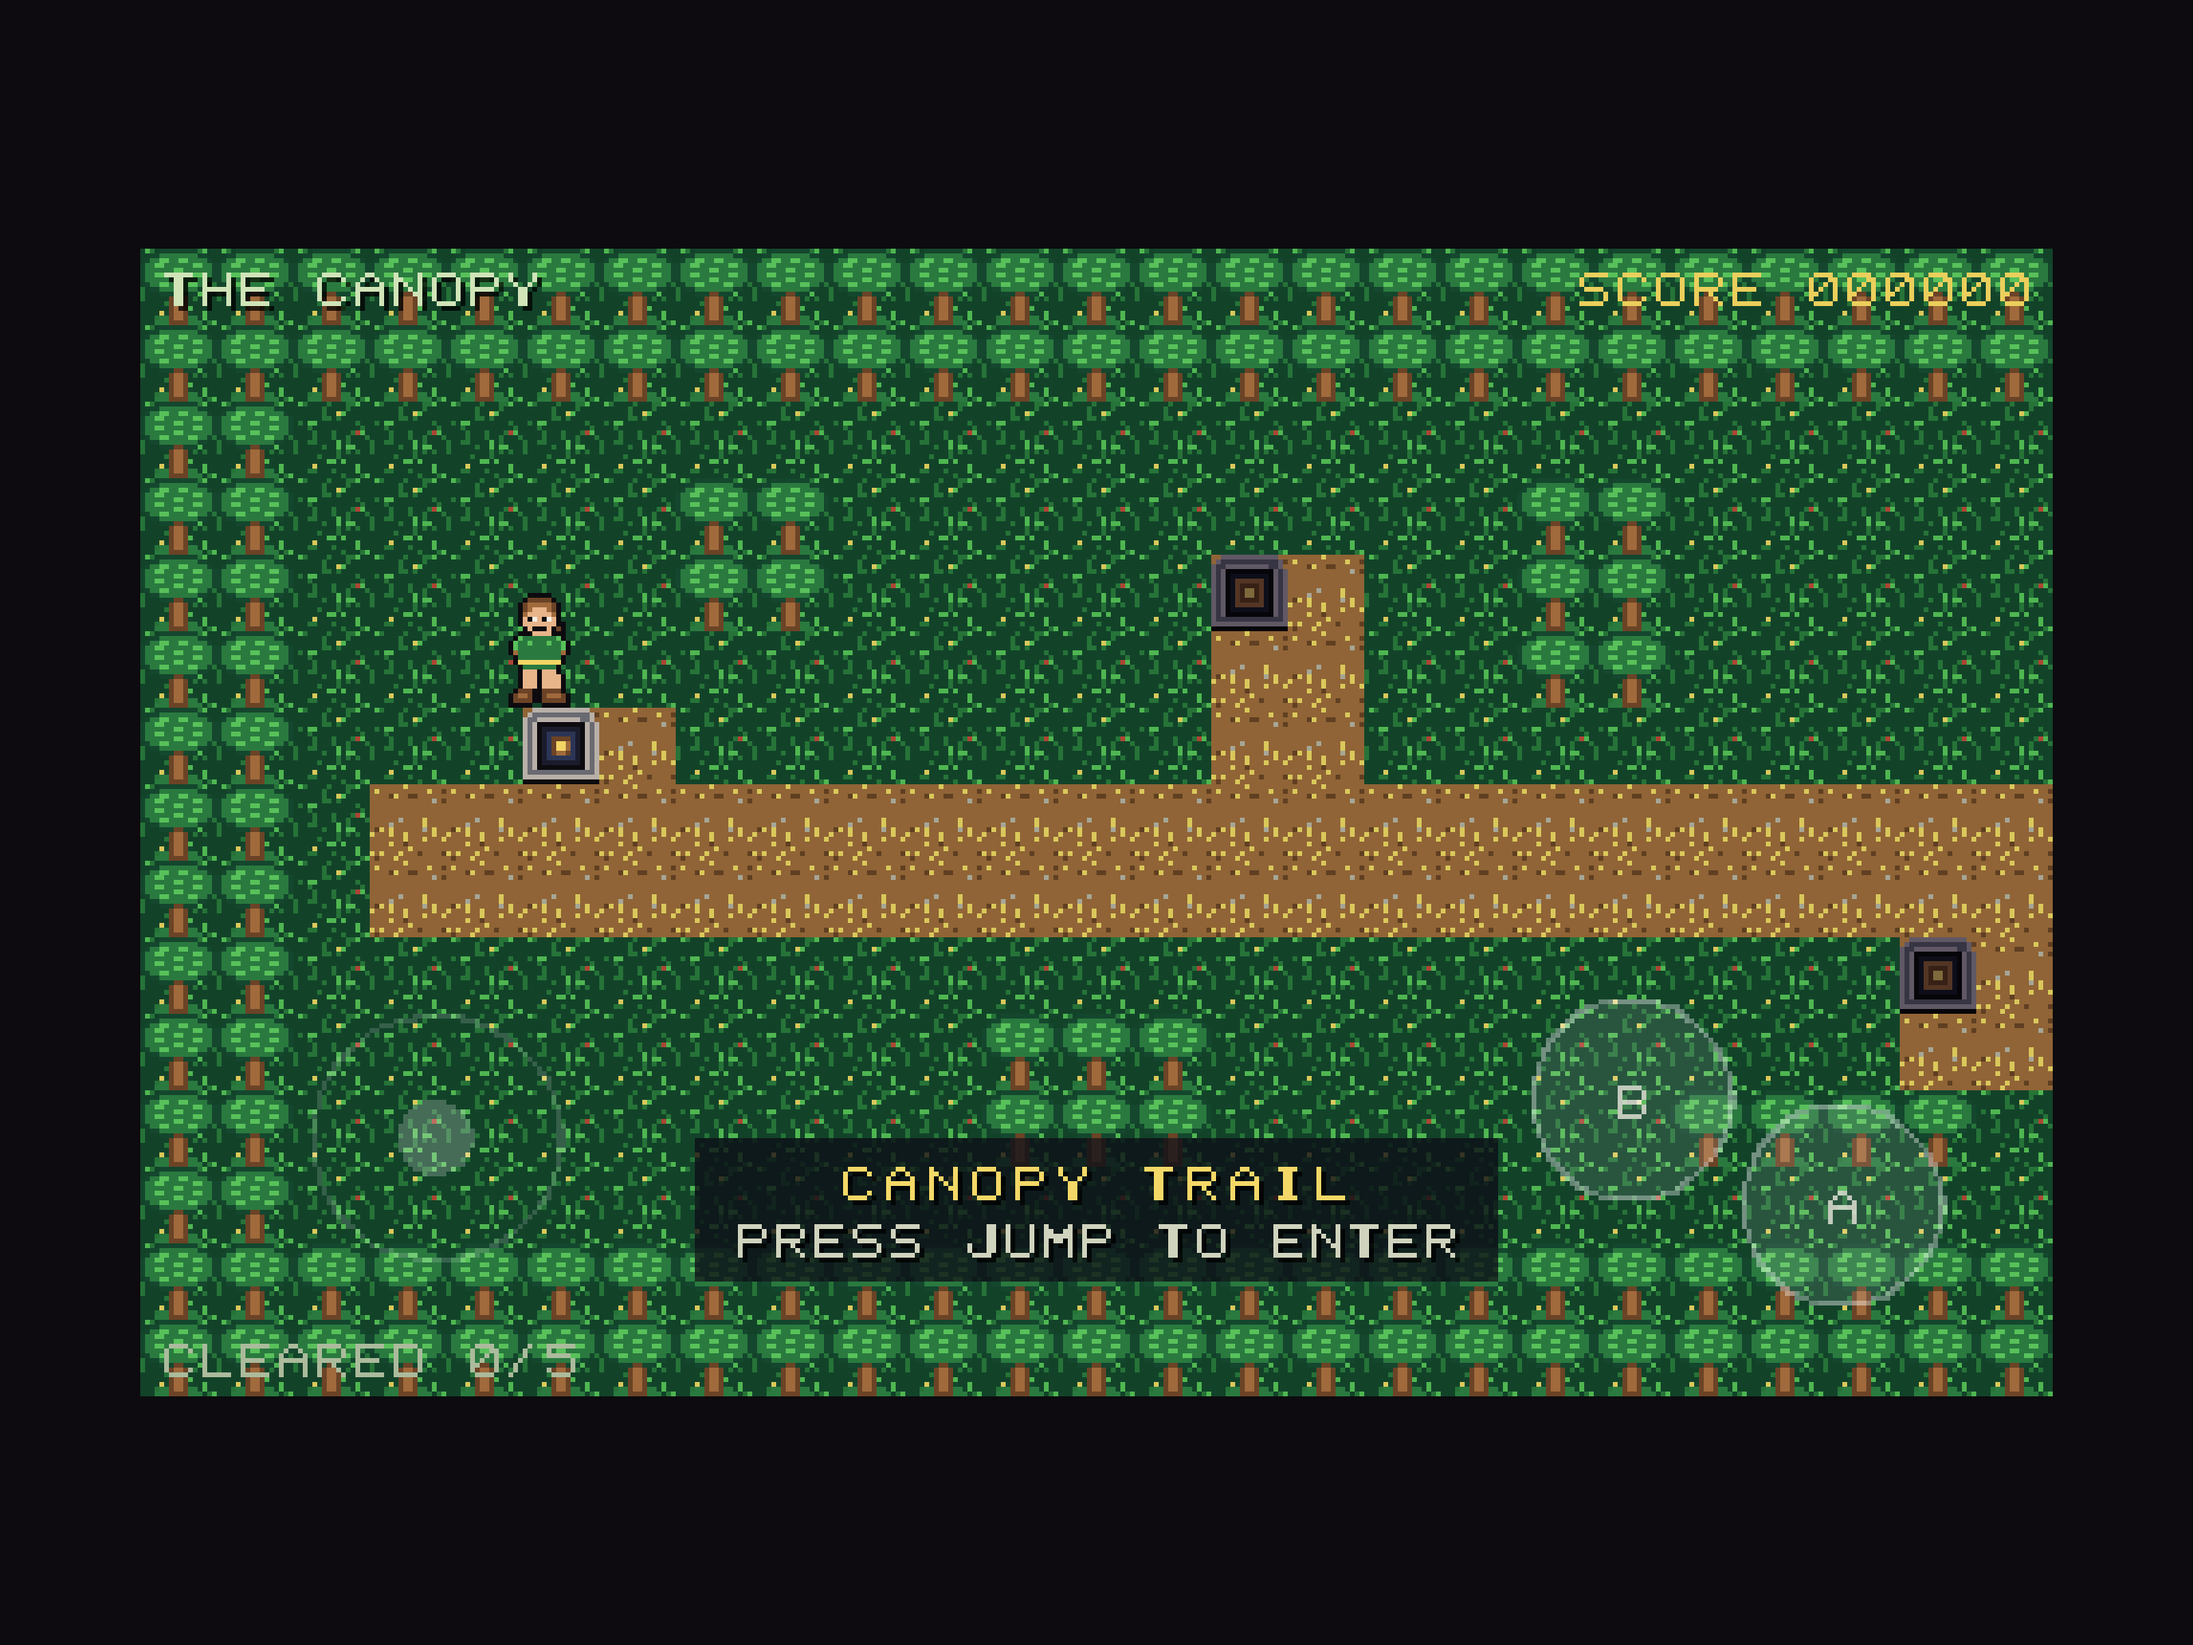
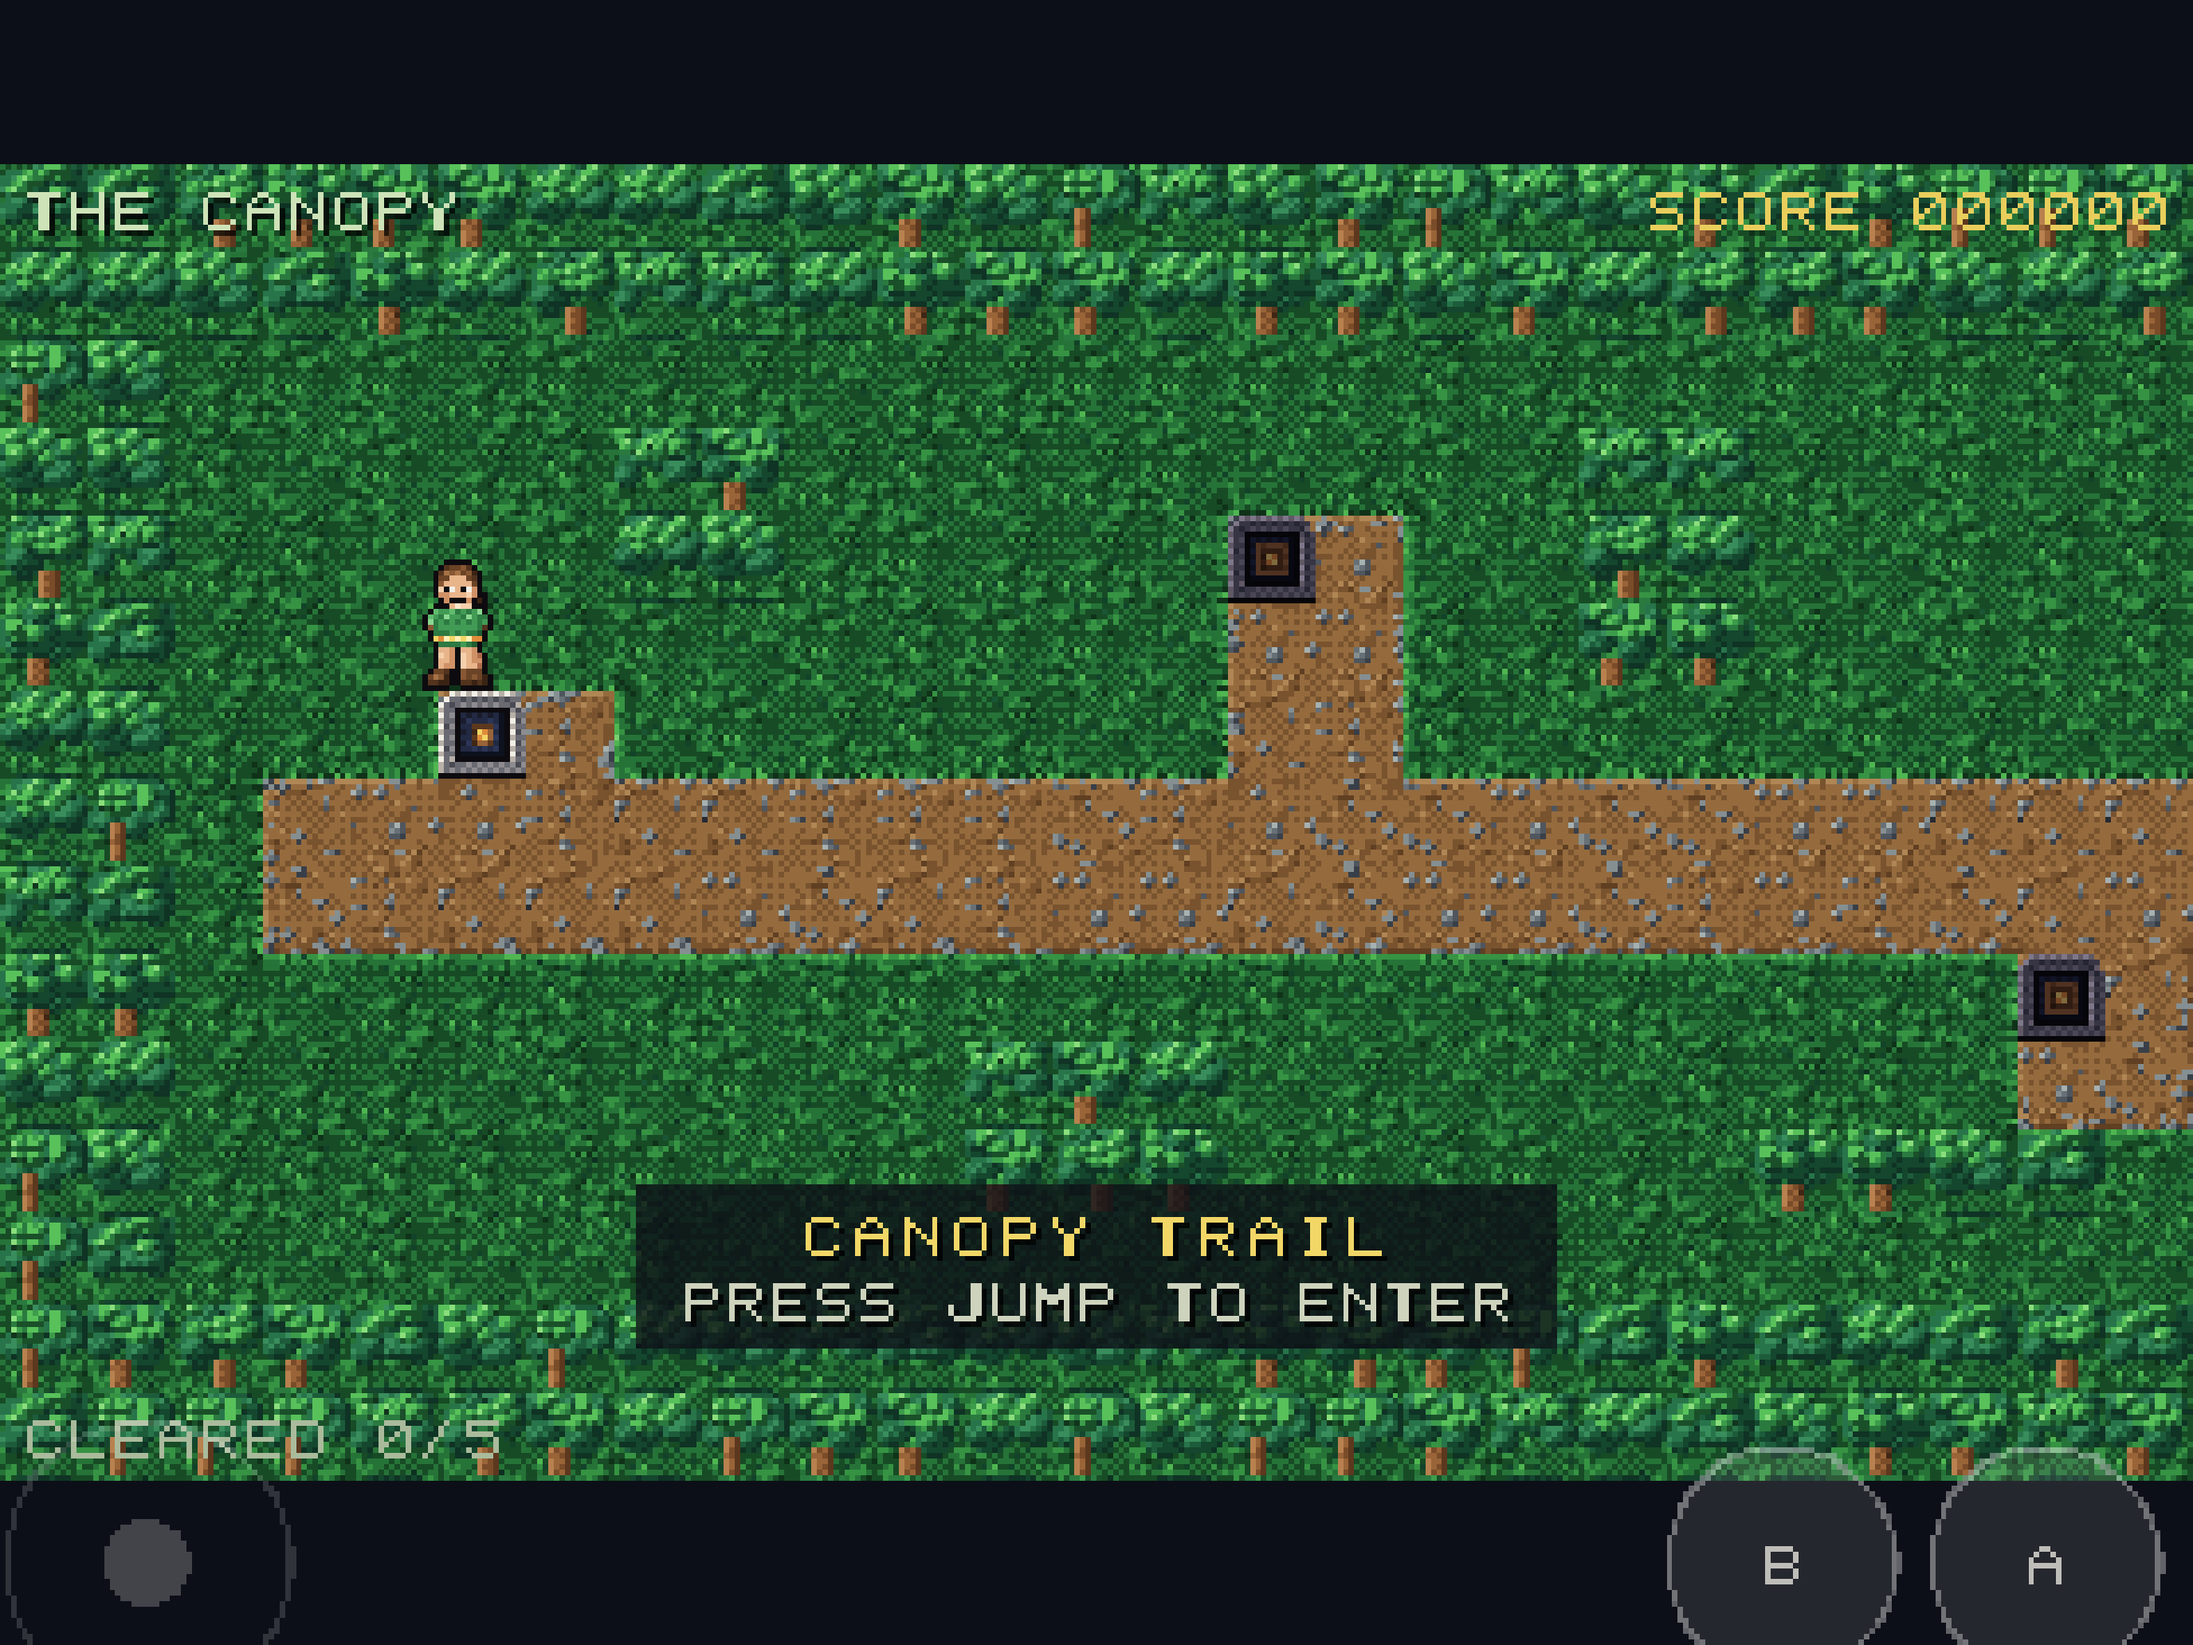
Fill the device screen, and move the touch buttons off the play area
Two reports, one cause: the game did not fill an iPhone, and the touch
buttons sat on top of the gameplay. Both came from pillarboxing a 5:3
logical screen onto a 2.17:1 device -- 311 px of black each side, with the
buttons inside the game rect and therefore about a centimetre inboard of
where a thumb rests.

Switching stretch/aspect to 'expand' alone would have filled the screen by
widening the viewport to 522 px = 32.6 tiles. The screen-flip camera treats
25 tiles as one screen, so that shows 7.6 tiles of the NEXT screen before
the flip -- the flip illusion and every level's composition break. Measured
before choosing.

So the world now renders into a 400x240 SubViewport, centred in a root
viewport that expands to the device aspect. The camera still sees exactly
one world screen; only the margin around it changes:

  19.5:9 phone   522x240   61 px each side    buttons in the right margin
  4:3 iPad       400x300   30 px top/bottom   buttons in the bottom margin
  exact 5:3      400x240   none               overlay fallback

The HUD is translated onto the world rect so it looks identical on every
aspect; full-screen overlays (pause, options, game over) now cover the real
viewport including the margins.

tools/shot.sh gains --res so captures can be taken at a device aspect, and
genstoreshots.sh shoots phone and tablet layouts separately -- the old store
screenshots showed a pillarboxed 400x240 that no device actually renders.
[…]

diff --git a/tools/gen_store_shots.py b/tools/gen_store_shots.py
@@ -17,10 +17,13 @@ ROOT = os.path.dirname(os.path.dirname(os.path.abspath(__file__)))
 SRC = os.path.join(ROOT, "shots")
 OUT = os.path.join(ROOT, "export", "store")
 
-# name -> (width, height). Landscape, because the game is landscape-only.
+# name -> (store size, capture subdirectory). Landscape; the game is
+# landscape-only. Captures are taken at each device's ASPECT so the screenshot
+# shows the real layout — full-bleed game with the touch controls out in the
+# margin — rather than a pillarboxed 400x240 that no device actually renders.
 TARGETS = {
-    "iphone-6.9": (2868, 1320),   # iPhone 16 Pro Max — required
-    "ipad-13":    (2752, 2064),   # 13" iPad — required while we ship universal
+    "iphone-6.9": ((2868, 1320), "phone"),   # 19.5:9 -> 522x240 logical
+    "ipad-13":    ((2752, 2064), "tablet"),  # 4:3    -> 400x300 logical
 }
 
 # Order matters: this is the order they appear on the store page.
@@ -38,30 +41,28 @@ BG = (13, 11, 15, 255)   # the palette's near-black, same as the letterbox
 
 
 def compose(src_path, size):
+    """The capture already has the device's aspect, so this only scales it up.
+    Nearest-neighbour keeps the pixels hard; any sub-percent aspect difference
+    between the capture and Apple's exact pixel size is invisible."""
     src = Image.open(src_path).convert("RGBA")
-    tw, th = size
-    scale = min(tw // src.width, th // src.height)
-    if scale < 1:
-        raise SystemExit("target %dx%d is smaller than the source" % size)
-    game = src.resize((src.width * scale, src.height * scale), Image.NEAREST)
-    canvas = Image.new("RGBA", size, BG)
-    canvas.alpha_composite(game, ((tw - game.width) // 2, (th - game.height) // 2))
-    return canvas, scale
+    scale = size[1] / src.height
+    return src.resize(size, Image.NEAREST), scale
 
 
 def main():
-    missing = [f for f, _ in PICKS if not os.path.exists(os.path.join(SRC, f))]
-    if missing:
-        raise SystemExit("missing source captures: %s" % ", ".join(missing))
-    for device, size in TARGETS.items():
+    for device, (size, sub) in TARGETS.items():
         d = os.path.join(OUT, device)
         os.makedirs(d, exist_ok=True)
         for i, (fname, label) in enumerate(PICKS, start=1):
-            img, scale = compose(os.path.join(SRC, fname), size)
+            cap = os.path.join(SRC, sub, fname)
+            if not os.path.exists(cap):
+                raise SystemExit("missing %s — run tools/genstoreshots.sh, which "
+                                 "captures per device aspect" % cap)
+            img, scale = compose(cap, size)
             out = os.path.join(d, "%02d-%s.png" % (i, label))
             img.convert("RGB").save(out, optimize=True)
-        print("%-12s %4dx%-4d  %d shots at %dx integer scale"
-              % (device, size[0], size[1], len(PICKS), scale))
+        print("%-12s %4dx%-4d  %d shots from %s captures (%.2fx)"
+              % (device, size[0], size[1], len(PICKS), sub, scale))
 
 
 if __name__ == "__main__":

diff --git a/docs/shipping.md b/docs/shipping.md
@@ -174,20 +174,35 @@ simulator is x86_64 natively. It is not reproducible on Apple Silicon, and it
 proved nothing about the device build anyway: the simulator slice does not
 reference the device-only symbols described above.
 
-#### Two things to watch on a real device
+#### Full-screen fit and touch placement — solved
+
+The game renders one **400x240 world screen** into a SubViewport, centred in a
+root viewport that expands to the device's aspect. The screen-flip camera still
+sees exactly one screen, so level composition is untouched, and the leftover
+margin holds the touch controls:
+
+| Device | Root viewport | Margin | Buttons |
+|---|---|---|---|
+| 19.5:9 phone | 522x240 | 61 px each side | right margin, stacked |
+| 4:3 iPad | 400x300 | 30 px top/bottom | bottom margin |
+| exact 5:3 | 400x240 | none | overlay fallback |
+
+This replaced the earlier pillarbox, where 311 px of black sat each side and the
+Jump button sat about a centimetre inboard of the screen edge. The buttons are
+now outside the play area entirely.
+
+`tools/shot.sh --res=WxH` captures at a given device aspect;
+`tools/genstoreshots.sh` uses it to shoot the phone and tablet layouts
+separately, so the store page shows what a player actually sees.
+
+#### One thing to watch on a real device
 - **Orientation** is `sensor landscape`, so the phone can be held either way up.
   (This was set to *portrait* until the first iOS build was prepared — a landscape
   game shipped portrait would have been the first thing a tester hit.
   `tests/test_project_config.gd` now guards it.)
-- **Thumb reach — measured, and it is real.** On the iPhone 16 Pro simulator the
-  game renders 2000 px wide inside a 2622 px screen, leaving **311 px of black
-  bar on each side** (~104 pt). The notch and home indicator fall harmlessly in
-  those bars, but so do the physical screen corners: the Jump button sits about
-  a centimetre inboard of where a thumb naturally rests. Play it before deciding
-  how to fix it. The options are a non-integer `scale_mode` (gives up
-  pixel-perfect scaling), or drawing the touch overlay in real screen space
-  rather than viewport space (keeps pixel-perfect, more work). Do not change
-  this blind — it is a genuine trade-off, not a bug.
+- **Thumb reach** is addressed by the layout above, but has still never been
+  felt by a human on hardware. The buttons are where they should be
+  geometrically; whether they are the right *size* is a playtest question.
 
 ## Store assets
 - Icons: `export/icons/icon_<size>.png`, all generated by
